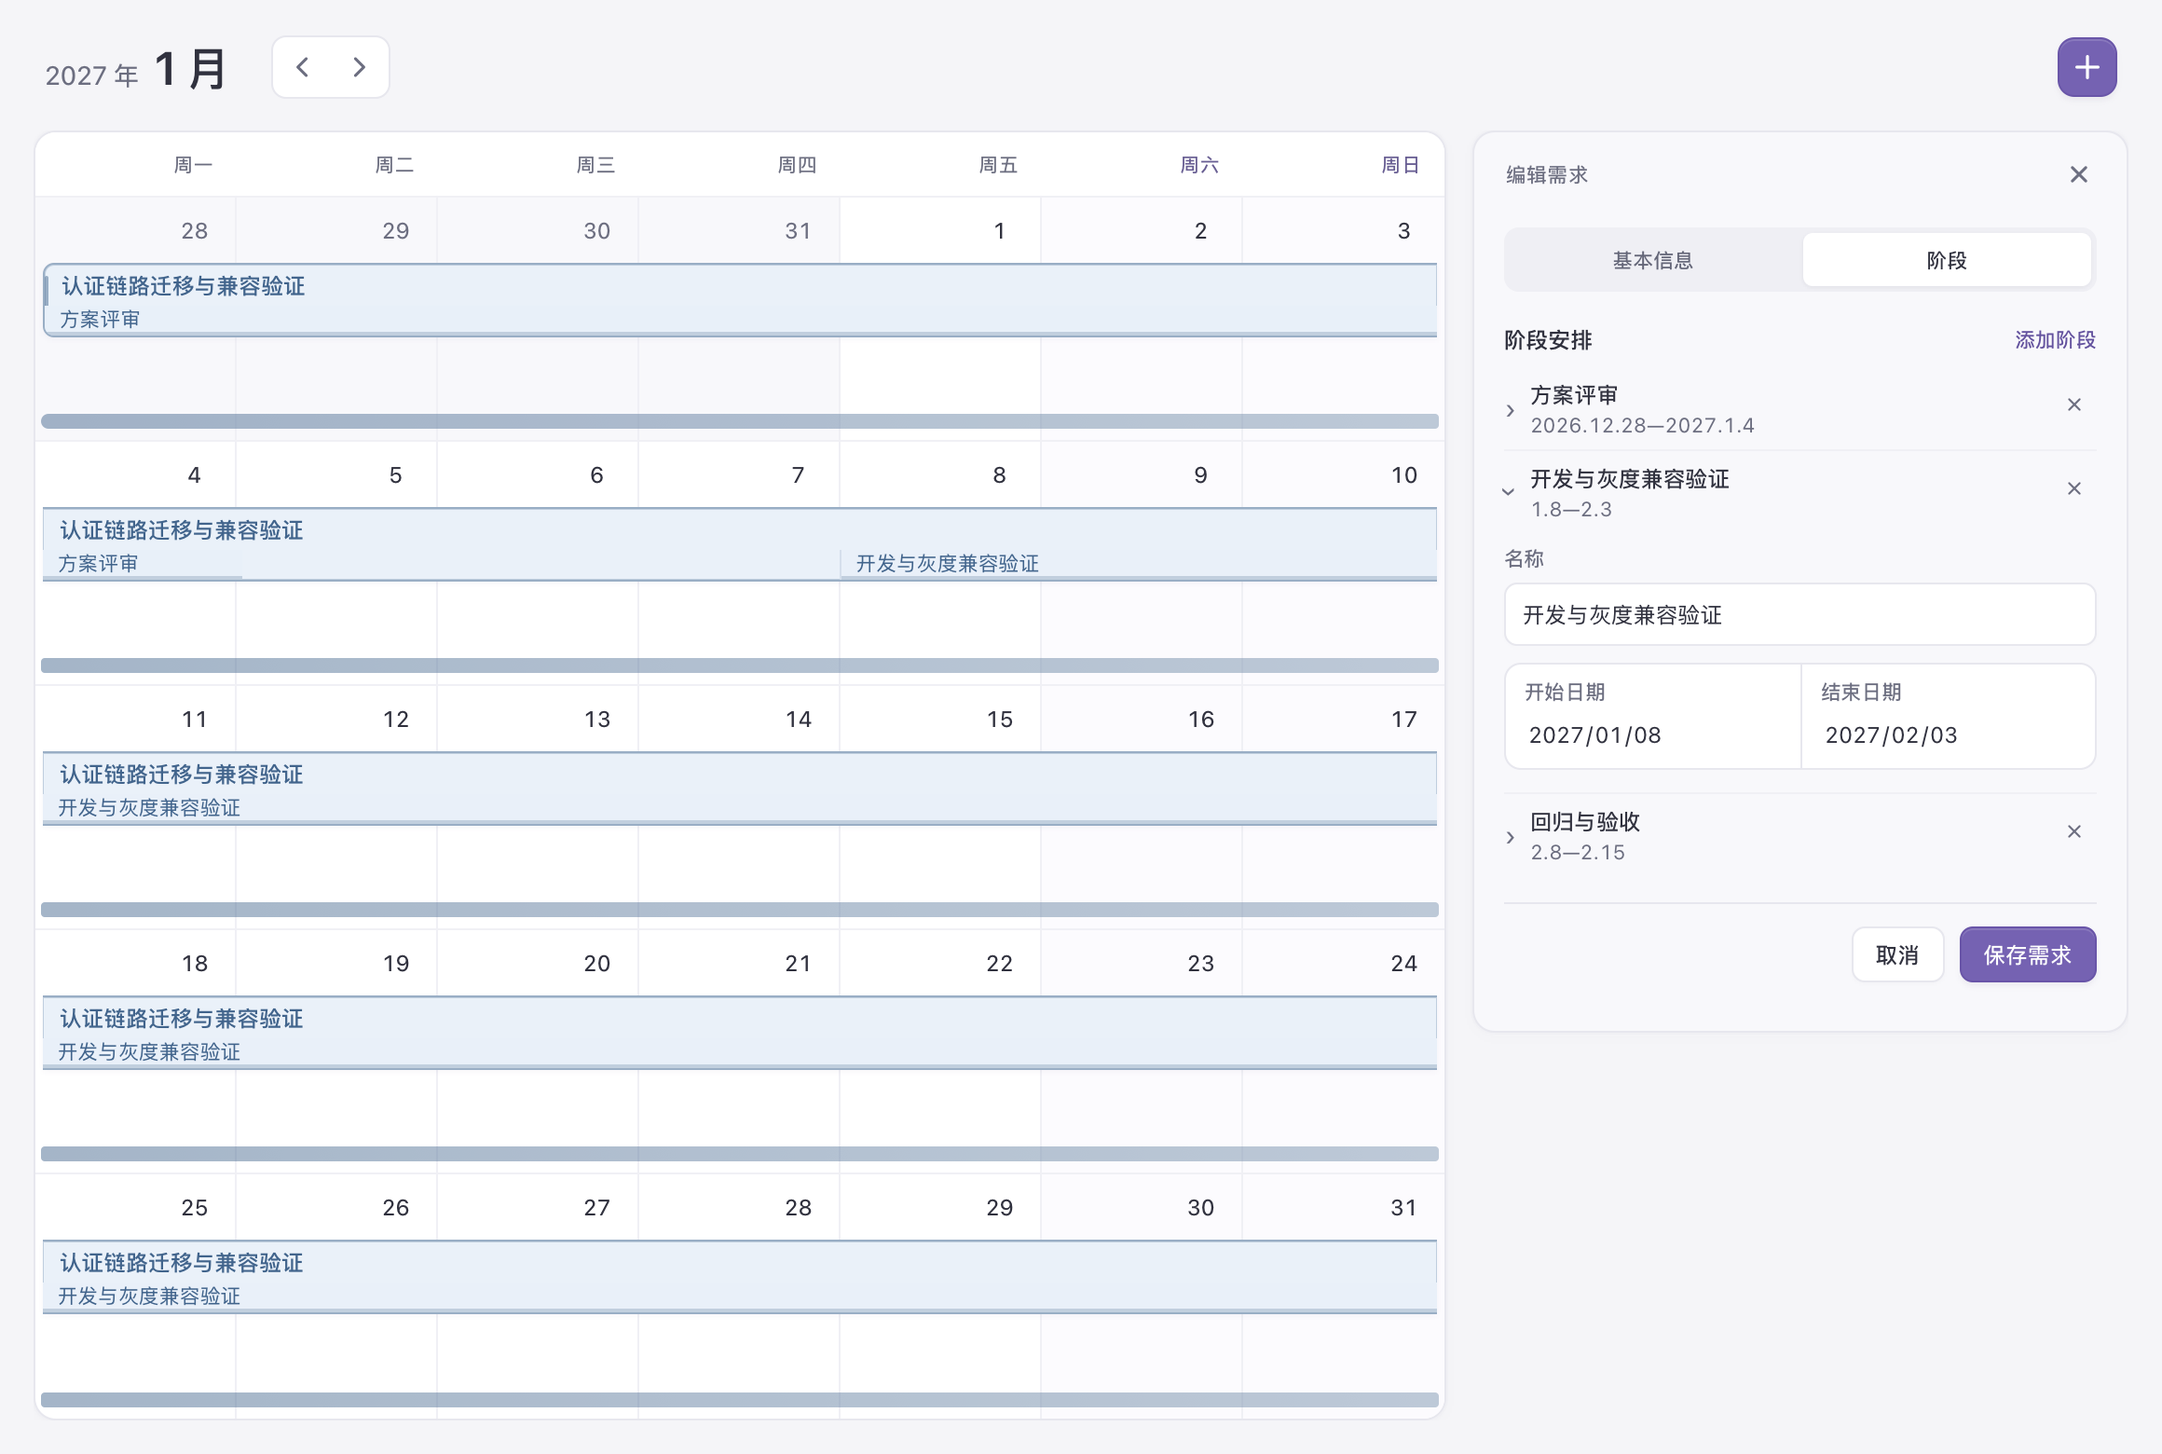
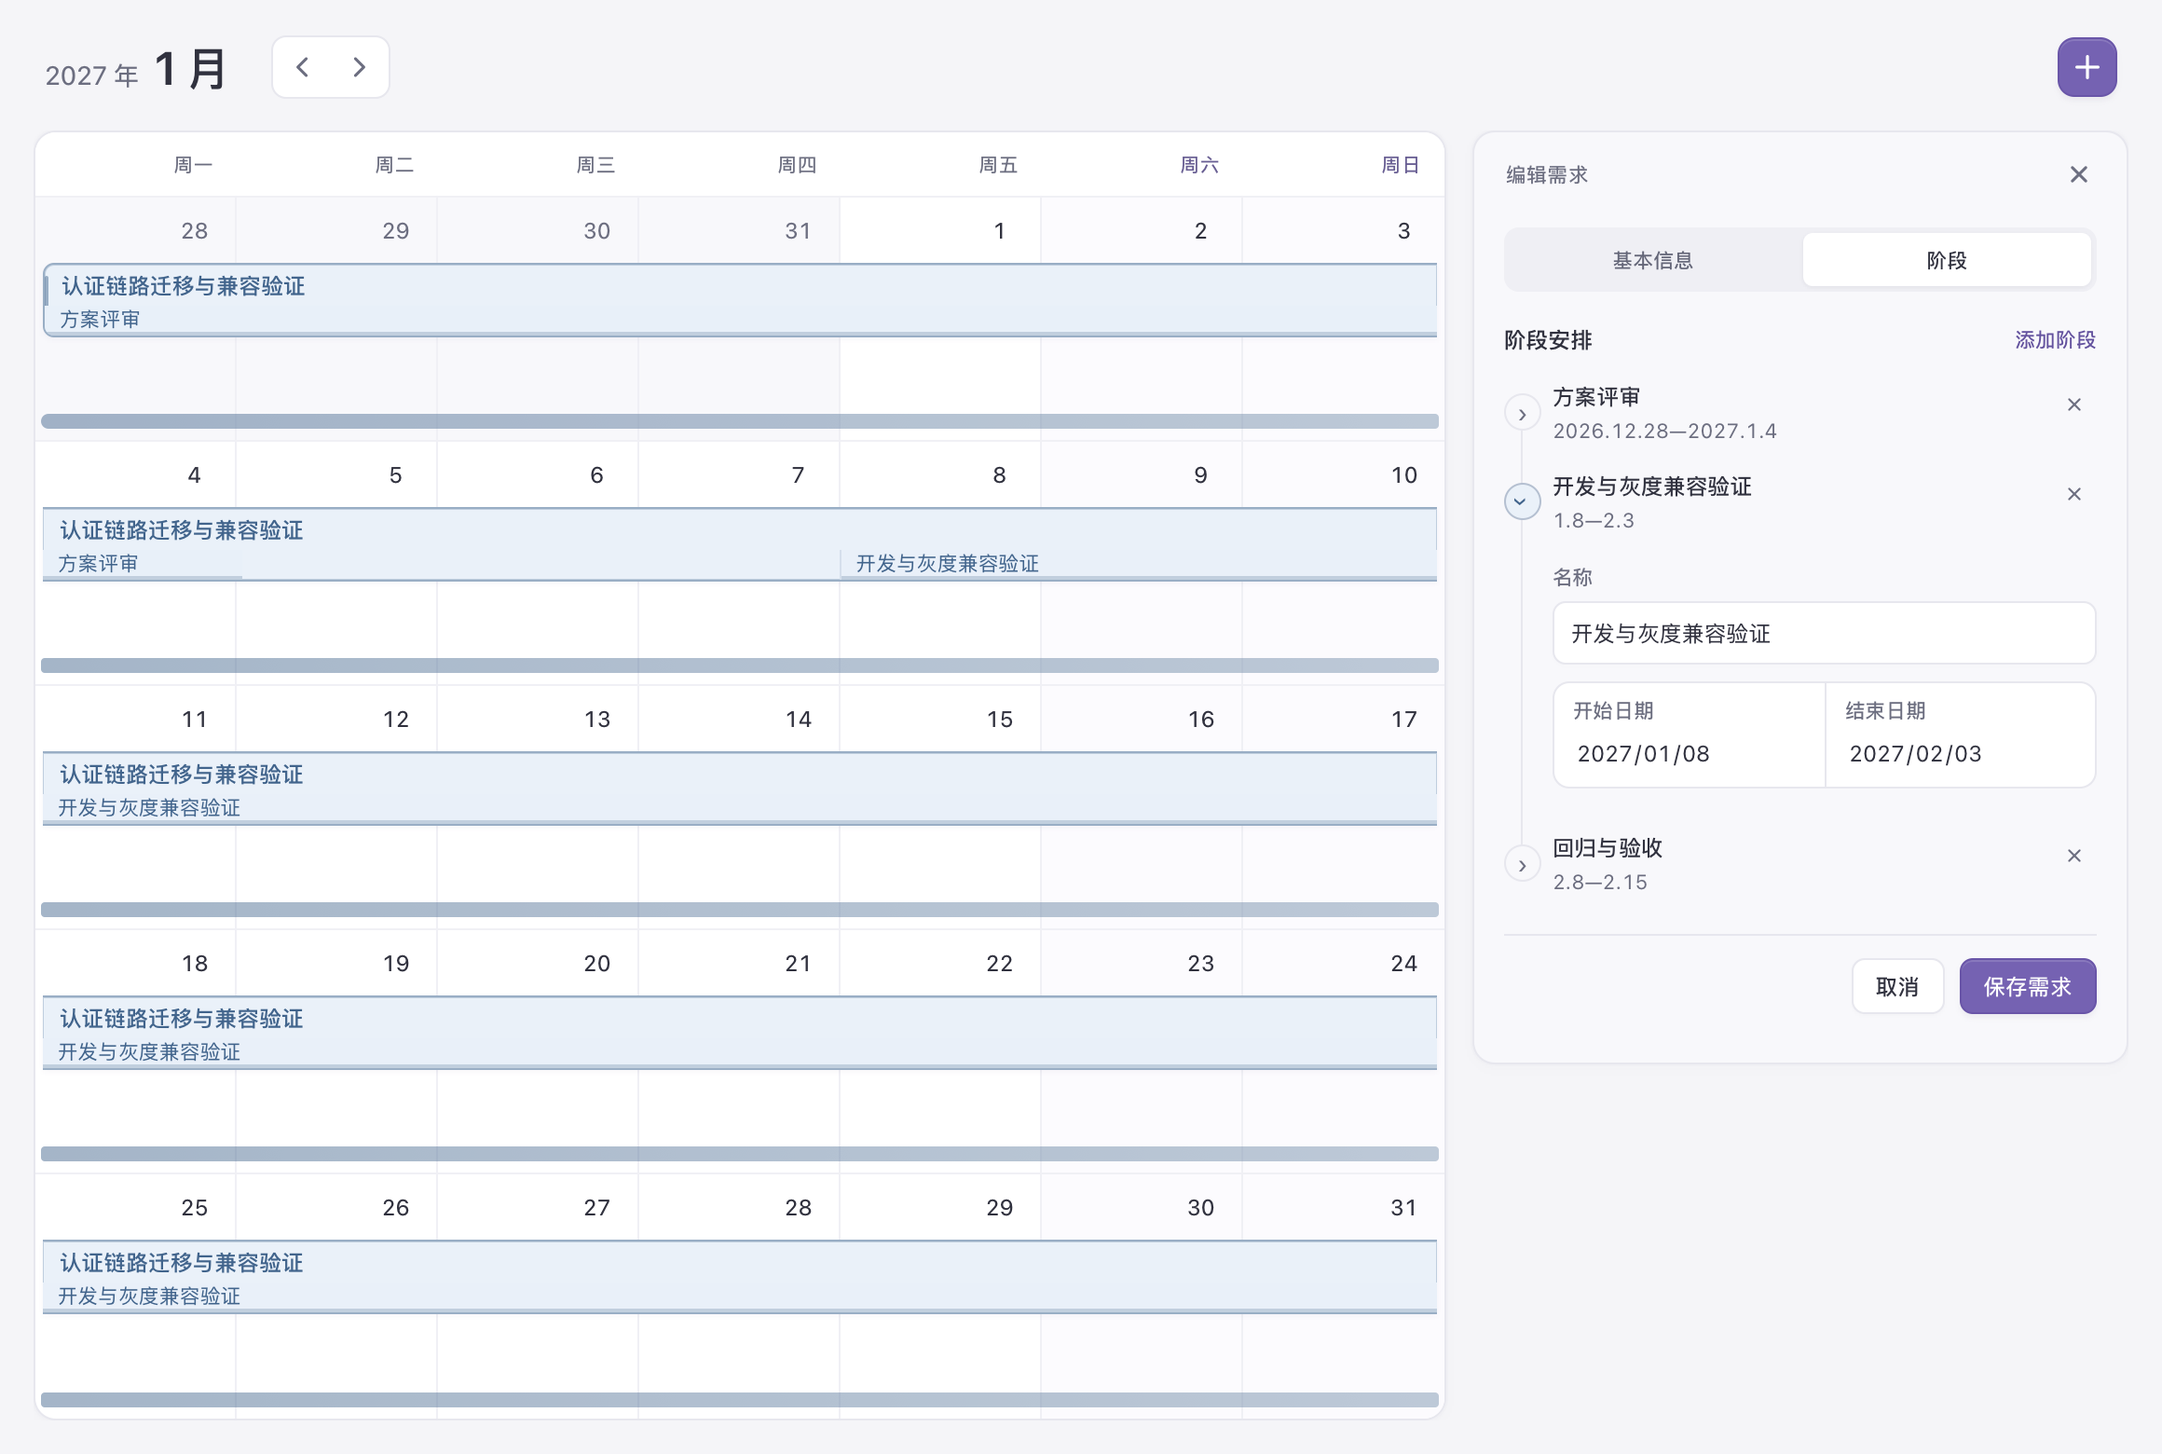
refine: connect phase reading and editing with a shared timeline
Align phase names, dates and expanded fields along a continuous axis. Keep native disclosure controls, use the requirement tone for the expanded node and retain complete long names and cross-year dates.

Verify default and smaller native-window geometry, light/dark content and editor regressions, and refresh four actual phase/detail screenshots. Record static and synthetic verification separately from trusted gestures and aesthetic acceptance.

diff --git a/index.html b/index.html
@@ -142,11 +142,11 @@ html.native #req-calendar-refined .rf-week { height:auto; min-height:calc(54px +
 #req-calendar-refined .rf-heading { display:flex; align-items:center; justify-content:space-between; gap:8px; margin-bottom:7px; }
 #req-calendar-refined .rf-text-button { padding:3px 0; color:var(--rf-purple); font-size:11px; font-weight:500; }
 #req-calendar-refined .rf-text-button:hover { text-decoration:underline; text-underline-offset:3px; }
-#req-calendar-refined .rf-phase-row { position:relative; display:flex; flex-wrap:wrap; align-items:flex-start; gap:2px 8px; padding:8px 0 8px 16px; font-size:12px; font-variant-numeric:tabular-nums; }
+#req-calendar-refined .rf-phase-row { position:relative; display:flex; flex-wrap:wrap; align-items:flex-start; gap:2px 8px; padding:8px 0 8px 26px; font-size:12px; font-variant-numeric:tabular-nums; }
 #req-calendar-refined .rf-phase-name { flex:1 1 180px; min-width:0; overflow-wrap:anywhere; }
 #req-calendar-refined .rf-phase-period { flex:none; white-space:nowrap; }
-#req-calendar-refined .rf-phase-row::before { content:''; position:absolute; top:14px; left:2px; width:5px; height:5px; border-radius:50%; background:var(--rf-line); }
-#req-calendar-refined .rf-phase-row:not(:last-child)::after { content:''; position:absolute; top:22px; bottom:-10px; left:4px; width:1px; background:var(--rf-line); }
+#req-calendar-refined .rf-phase-row::before { content:''; position:absolute; top:14px; left:6px; width:7px; height:7px; border-radius:50%; background:var(--rf-line); }
+#req-calendar-refined .rf-phase-row:not(:last-child)::after { content:''; position:absolute; top:24px; bottom:-10px; left:9px; width:1px; background:var(--rf-line); }
 #req-calendar-refined .rf-phase-row.current { color:var(--rf-context-tone); }
 #req-calendar-refined .rf-phase-row.current::before { background:var(--rf-context-tone); box-shadow:0 0 0 3px var(--rf-context-fill); }
 #req-calendar-refined .rf-resource-row { display:flex; align-items:center; gap:9px; min-width:0; padding:9px 0; color:inherit; text-decoration:none; border-bottom:1px solid var(--rf-grid); }
@@ -211,11 +211,16 @@ html.native #req-calendar-refined .rf-week { height:auto; min-height:calc(54px +
 #req-calendar-refined .rf-item-summary .rf-resource-icon { width:22px; height:22px; border-radius:5px; font-size:10px; }
 #req-calendar-refined .rf-summary-name { flex:1; min-width:0; font-weight:500; overflow:hidden; text-overflow:ellipsis; white-space:nowrap; }
 #req-calendar-refined .rf-summary-meta { flex:none; max-width:90px; font-size:10px; color:var(--rf-muted); overflow:hidden; text-overflow:ellipsis; white-space:nowrap; }
-#req-calendar-refined .rf-phase-summary { display:grid; grid-template-columns:7px minmax(0,1fr); gap:1px 7px; min-height:44px; }
-#req-calendar-refined .rf-phase-summary::before { grid-row:1 / span 2; }
+#req-calendar-refined [data-editor-panel=phases] .rf-editor-item { border-bottom:0; }
+#req-calendar-refined [data-editor-panel=phases] .rf-editor-item:not(:last-child)::before { content:''; position:absolute; top:25px; bottom:-19px; left:9px; width:1px; background:var(--rf-line); }
+#req-calendar-refined .rf-phase-summary { position:relative; display:grid; grid-template-columns:18px minmax(0,1fr); gap:1px 8px; min-height:48px; }
+#req-calendar-refined .rf-phase-summary::before { display:grid; place-items:center; grid-row:1 / span 2; width:18px; height:18px; border:1px solid var(--rf-line); border-radius:50%; background:var(--rf-panel-surface); font-size:14px; }
+#req-calendar-refined .rf-phase-summary:hover::before { color:var(--rf-context-tone); border-color:var(--rf-context-tone); }
+#req-calendar-refined details[open]>.rf-phase-summary::before { color:var(--rf-context-tone); background:var(--rf-context-fill); border-color:color-mix(in srgb,var(--rf-context-tone) 30%,var(--rf-line)); }
 #req-calendar-refined .rf-phase-summary .rf-summary-name { grid-column:2; font-size:12px; line-height:16px; white-space:normal; overflow:visible; overflow-wrap:anywhere; }
 #req-calendar-refined .rf-phase-summary .rf-summary-meta { grid-column:2; max-width:none; font-size:11px; line-height:14px; font-variant-numeric:tabular-nums; overflow:visible; text-overflow:clip; }
 #req-calendar-refined .rf-item-fields { display:grid; gap:9px; padding:5px 0 12px; }
+#req-calendar-refined [data-editor-panel=phases] .rf-item-fields { margin-left:26px; padding-top:8px; padding-bottom:16px; }
 #req-calendar-refined .rf-editor-item>.rf-remove { position:absolute; top:8px; right:0; }
 #req-calendar-refined .rf-remove { display:grid; place-items:center; flex:none; width:var(--rf-remove-size); height:var(--rf-remove-size); padding:0; border-radius:5px; color:var(--rf-muted); }
 #req-calendar-refined .rf-remove svg { width:14px; height:14px; stroke-width:1.5; }

diff --git a/src/styles.css b/src/styles.css
@@ -134,11 +134,11 @@ html.native #req-calendar-refined .rf-week { height:auto; min-height:calc(54px +
 #req-calendar-refined .rf-heading { display:flex; align-items:center; justify-content:space-between; gap:8px; margin-bottom:7px; }
 #req-calendar-refined .rf-text-button { padding:3px 0; color:var(--rf-purple); font-size:11px; font-weight:500; }
 #req-calendar-refined .rf-text-button:hover { text-decoration:underline; text-underline-offset:3px; }
-#req-calendar-refined .rf-phase-row { position:relative; display:flex; flex-wrap:wrap; align-items:flex-start; gap:2px 8px; padding:8px 0 8px 16px; font-size:12px; font-variant-numeric:tabular-nums; }
+#req-calendar-refined .rf-phase-row { position:relative; display:flex; flex-wrap:wrap; align-items:flex-start; gap:2px 8px; padding:8px 0 8px 26px; font-size:12px; font-variant-numeric:tabular-nums; }
 #req-calendar-refined .rf-phase-name { flex:1 1 180px; min-width:0; overflow-wrap:anywhere; }
 #req-calendar-refined .rf-phase-period { flex:none; white-space:nowrap; }
-#req-calendar-refined .rf-phase-row::before { content:''; position:absolute; top:14px; left:2px; width:5px; height:5px; border-radius:50%; background:var(--rf-line); }
-#req-calendar-refined .rf-phase-row:not(:last-child)::after { content:''; position:absolute; top:22px; bottom:-10px; left:4px; width:1px; background:var(--rf-line); }
+#req-calendar-refined .rf-phase-row::before { content:''; position:absolute; top:14px; left:6px; width:7px; height:7px; border-radius:50%; background:var(--rf-line); }
+#req-calendar-refined .rf-phase-row:not(:last-child)::after { content:''; position:absolute; top:24px; bottom:-10px; left:9px; width:1px; background:var(--rf-line); }
 #req-calendar-refined .rf-phase-row.current { color:var(--rf-context-tone); }
 #req-calendar-refined .rf-phase-row.current::before { background:var(--rf-context-tone); box-shadow:0 0 0 3px var(--rf-context-fill); }
 #req-calendar-refined .rf-resource-row { display:flex; align-items:center; gap:9px; min-width:0; padding:9px 0; color:inherit; text-decoration:none; border-bottom:1px solid var(--rf-grid); }
@@ -203,11 +203,16 @@ html.native #req-calendar-refined .rf-week { height:auto; min-height:calc(54px +
 #req-calendar-refined .rf-item-summary .rf-resource-icon { width:22px; height:22px; border-radius:5px; font-size:10px; }
 #req-calendar-refined .rf-summary-name { flex:1; min-width:0; font-weight:500; overflow:hidden; text-overflow:ellipsis; white-space:nowrap; }
 #req-calendar-refined .rf-summary-meta { flex:none; max-width:90px; font-size:10px; color:var(--rf-muted); overflow:hidden; text-overflow:ellipsis; white-space:nowrap; }
-#req-calendar-refined .rf-phase-summary { display:grid; grid-template-columns:7px minmax(0,1fr); gap:1px 7px; min-height:44px; }
-#req-calendar-refined .rf-phase-summary::before { grid-row:1 / span 2; }
+#req-calendar-refined [data-editor-panel=phases] .rf-editor-item { border-bottom:0; }
+#req-calendar-refined [data-editor-panel=phases] .rf-editor-item:not(:last-child)::before { content:''; position:absolute; top:25px; bottom:-19px; left:9px; width:1px; background:var(--rf-line); }
+#req-calendar-refined .rf-phase-summary { position:relative; display:grid; grid-template-columns:18px minmax(0,1fr); gap:1px 8px; min-height:48px; }
+#req-calendar-refined .rf-phase-summary::before { display:grid; place-items:center; grid-row:1 / span 2; width:18px; height:18px; border:1px solid var(--rf-line); border-radius:50%; background:var(--rf-panel-surface); font-size:14px; }
+#req-calendar-refined .rf-phase-summary:hover::before { color:var(--rf-context-tone); border-color:var(--rf-context-tone); }
+#req-calendar-refined details[open]>.rf-phase-summary::before { color:var(--rf-context-tone); background:var(--rf-context-fill); border-color:color-mix(in srgb,var(--rf-context-tone) 30%,var(--rf-line)); }
 #req-calendar-refined .rf-phase-summary .rf-summary-name { grid-column:2; font-size:12px; line-height:16px; white-space:normal; overflow:visible; overflow-wrap:anywhere; }
 #req-calendar-refined .rf-phase-summary .rf-summary-meta { grid-column:2; max-width:none; font-size:11px; line-height:14px; font-variant-numeric:tabular-nums; overflow:visible; text-overflow:clip; }
 #req-calendar-refined .rf-item-fields { display:grid; gap:9px; padding:5px 0 12px; }
+#req-calendar-refined [data-editor-panel=phases] .rf-item-fields { margin-left:26px; padding-top:8px; padding-bottom:16px; }
 #req-calendar-refined .rf-editor-item>.rf-remove { position:absolute; top:8px; right:0; }
 #req-calendar-refined .rf-remove { display:grid; place-items:center; flex:none; width:var(--rf-remove-size); height:var(--rf-remove-size); padding:0; border-radius:5px; color:var(--rf-muted); }
 #req-calendar-refined .rf-remove svg { width:14px; height:14px; stroke-width:1.5; }

diff --git a/docs/OPTIMIZATION_LOG.md b/docs/OPTIMIZATION_LOG.md
@@ -376,3 +376,12 @@ CALENDAR_VERIFY_OUTPUT=/tmp/calendar-permission-pending.json \
 已有浅/深色编辑导航各 11、长列表新增各 36、阅读连续性各 17、布局各 16、综合桌面各 49、常规桌面与浏览器存储各 21、浅色交互补修 20、页面构建 1，以及原生签名/包内页面与许可一致性通过。两张实际备忘截图已查看并加入 README。初次截图未等待布局稳定，保存栏遮住输入区末尾；截图夹具增加稳定等待与底部避让检查后，输入区底部 703px、保存栏顶部 708px，完整展示内容，没有为此修改产品行为。
 
 证据限定为隔离 WebKit 的合成输入、选区对象、几何、原生保存和动画结束状态；可信输入法/光标滚动/拖动调整手势、原暂缓系统项与用户审美接受未据此验收。
+
+
+## 阶段时间轴的视觉连续性 · 2026-10-09
+
+阶段编辑从带分隔线的普通折叠行改为连续纵向时间轴，沿用详情的轴线位置与 26px 文字缩进。折叠摘要保持名称/日期两行，48px 行高；原生 summary 的展开箭头位于圆形节点中，展开节点使用当前需求配色。展开字段沿摘要名称对齐，阶段间使用轴线连接，资料行样式保持原样。只修改 CSS，未增加控件或更改阶段顺序、日期校验、持久化与草稿行为。
+
+实际隔离 WebKit 浅/深色默认与较小窗口测量均显示字段左边缘与名称对齐（偏差 0px），日期输入 clientWidth 与 scrollWidth 相等，最窄 113px，没有文档溢出。浅/深色长内容各 29、可读性各 9、编辑行各 23、长列表新增各 36、阅读连续性各 17、布局各 16、综合桌面各 49，以及页面构建 1、原生签名和包内页面/许可一致性通过。公开网站图标及编辑返回各 8 条通过。
+
+四张实际浅/深色阶段编辑和详情截图已查看并更新 README。上述证据覆盖静态布局、合成激活与隔离原生保存，动画仅推进到结束状态；用户审美接受与原暂缓系统/可信手势项未据此验收。其他历史套件不列为本次复测。

diff --git a/docs/COMPLETION_AUDIT.md b/docs/COMPLETION_AUDIT.md
@@ -211,3 +211,8 @@
 备忘随内容从紧凑高度增长到有上限的输入区，长内容继续内部滚动，缩短后收回；当前编辑保留显式调整高度，窗口宽度变化及隐藏页签恢复时重新排版。相同 WebKit 夹具的 8 行内容从 78px 增至 174px，160 行自动高度 240px，不改变数据格式。浅/深色各 25 条新检查覆盖增减、重排、选区/滚动、草稿确认、失败保存/重试、保存/放弃与原有文字保留。
 
 已有浅/深色导航各 11、长列表新增各 36、阅读连续性各 17、布局各 16、综合桌面各 49、常规桌面及浏览器存储各 21、浅色交互补修 20、页面构建 1 和原生签名/包内一致性通过。两张实际备忘截图已检查，输入区与保存栏保持间距。显式手动高度为内联样式状态模拟，输入为合成事件；可信调整手势、输入法及原暂缓系统/审美验收保持未完成。
+
+
+## 阶段时间轴的视觉连续性（2026-10-09）
+
+详情与阶段编辑沿用同一轴线和文字缩进，折叠节点显示展开箭头，展开节点使用需求配色，字段与阶段名称对齐。实际浅/深色默认及较小原生窗口中对齐偏差 0px，日期输入无内部水平溢出；四张实际截图已查看。最终构建长内容各 29、可读性各 9、编辑行各 23、长列表新增各 36、阅读连续性各 17、布局各 16、综合桌面各 49、真实图标各 8、页面构建 1 与签名/包内一致性通过。纯样式调整，静态测量和合成操作未证明用户审美接受或暂缓系统/可信手势验收。

diff --git a/README.md b/README.md
@@ -139,12 +139,12 @@ python3 -m http.server 8080 --bind 127.0.0.1
 
 评审、开发、联调、测试、上线等阶段属于同一个需求，以阶段文字和细时间线标在同一长条内部。阶段名称可以自定义，不需要把每个阶段再建成独立日历事项。
 
-阶段编辑列表将名称与日期分为紧凑的两行，跨年日期完整显示，长名称按需换行。展开某一阶段即可修改名称及起止日期，其余阶段保持折叠。
+阶段详情与编辑使用一致的纵向时间轴。编辑时，名称和日期沿轴线对齐，跨年日期完整显示，长名称按需换行；展开的阶段以需求配色标明，名称及起止日期缩进在同一层，其余阶段保持折叠。
 
 <details>
 <summary>查看阶段编辑与跨年安排</summary>
 
-![阶段编辑：完整跨年日期与展开的阶段字段](assets/desktop-phase-editor.png)
+![阶段编辑：连续时间轴、完整跨年日期与展开的阶段字段](assets/desktop-phase-editor.png)
 
 *桌面版实际运行截图：需求跨越年末与两个后续月份，阶段间允许保留空档；编辑时持续保留对应日期条。*
 
